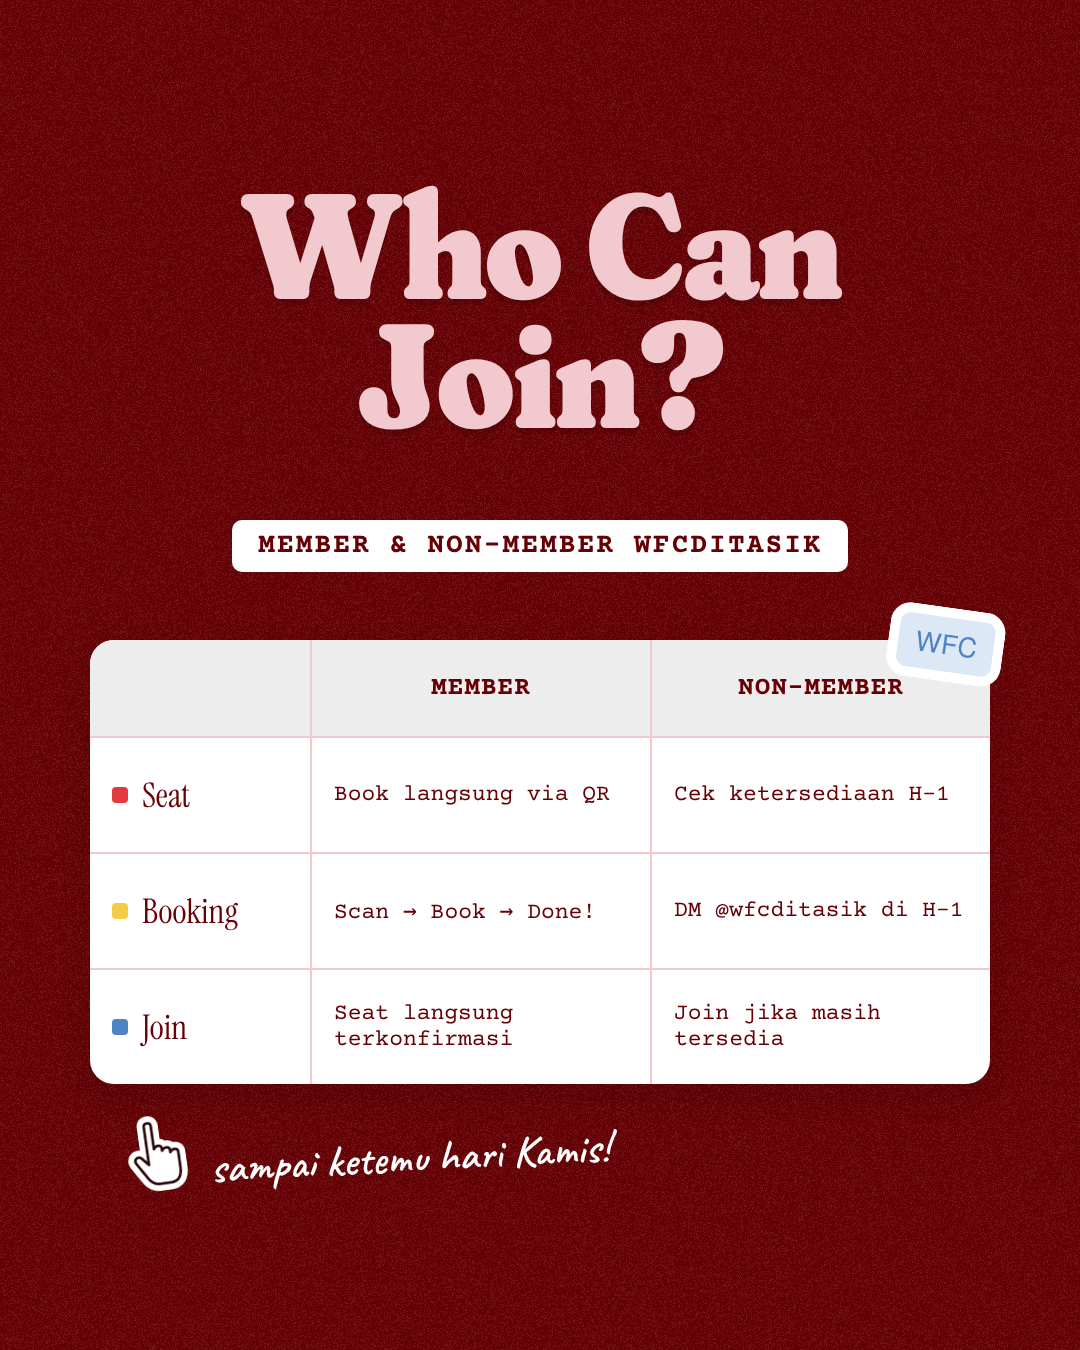
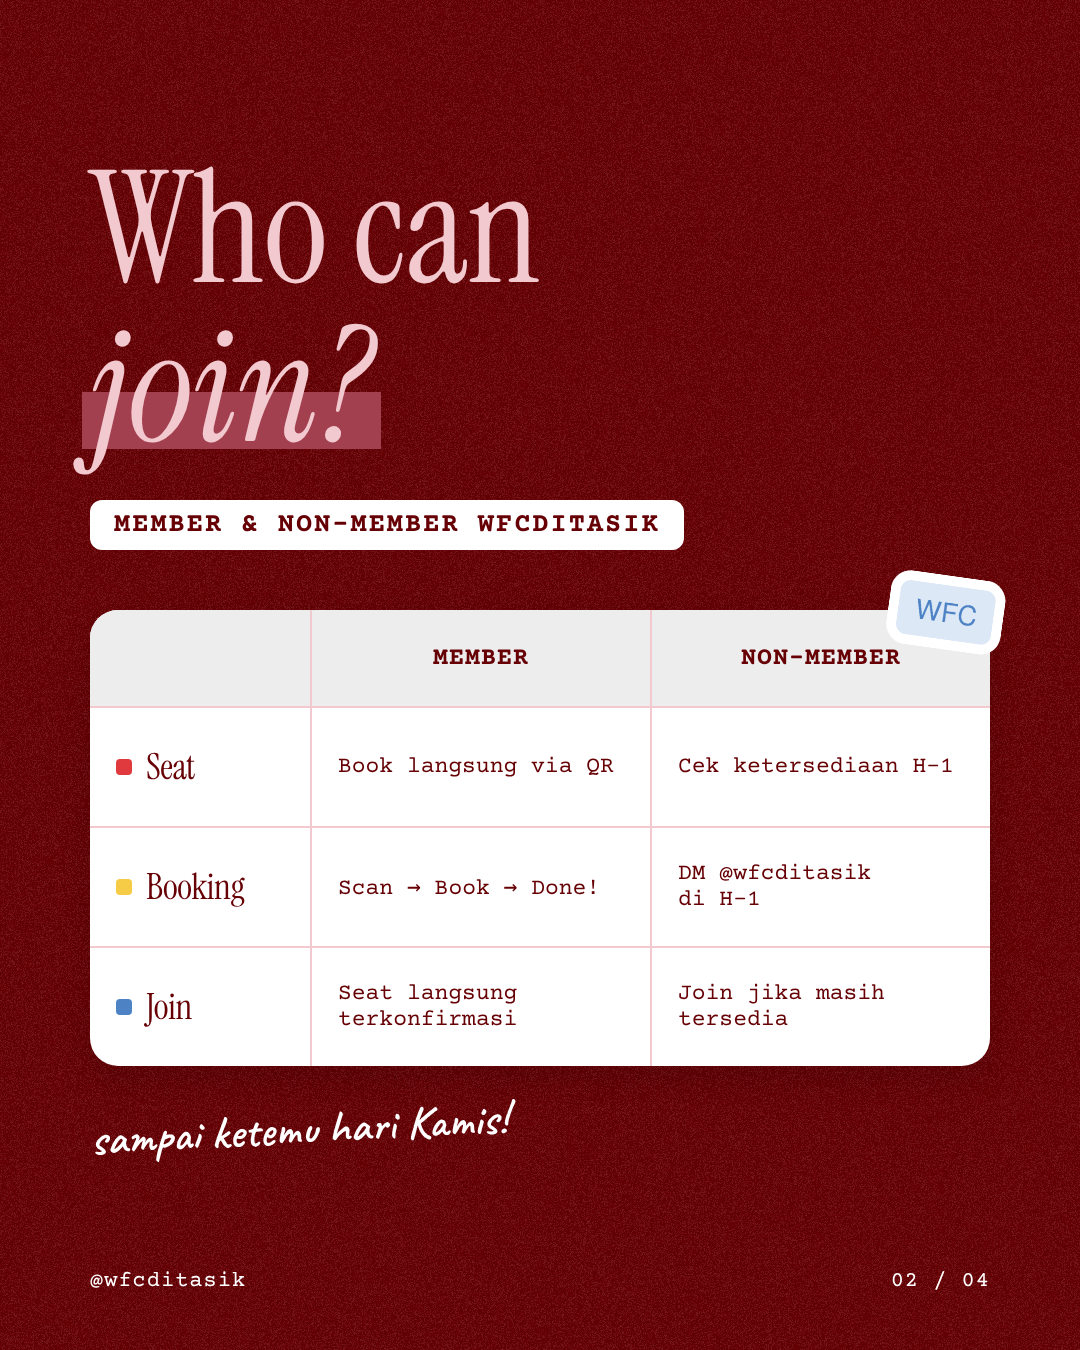
WFCbareng poster: 4 slides (poster, who can join, member benefits, join CTA), Cooper-style tight title, brand fonts elsewhere
Claude-Session: https://claude.ai/code/session_01PYAFn8ft4nKeCr1swPnjKW

diff --git a/tools/build_wfcbareng_poster.py b/tools/build_wfcbareng_poster.py
@@ -1,11 +1,13 @@
-"""Build the weekly WFCbareng poster (2 slides, 1080x1350).
+"""Build the weekly WFCbareng poster carousel (4 slides, 1080x1350).
 
 Usage:
   python3 tools/build_wfcbareng_poster.py --number 11 --date 2026-10-15 --bg maroon \
-      --illustration posters/2026-10-15-11/illustration.svg [--qr path/to/qr.png]
+      --illustration posters/2026-10-15-11/illustration.svg [--qr qr.png] [--website example.com]
 
-Output: posters/<date>-<number>/slide-01.png (poster) and slide-02.png (Who Can Join?).
+Slides: 01 poster · 02 Who Can Join? · 03 member benefits · 04 join-member CTA.
 Backgrounds rotate maroon -> pink -> gray (plain + grain texture).
+Fonts: "WFC bareng" title = Cooper BT (fonts/wfcbareng/WFCbareng.ttf|.otf if provided; else Fraunces
+Black Soft as stand-in). Everything else = brand-kit fonts (Instrument Serif, Courier Prime, Caveat).
 """
 import argparse, asyncio, datetime, os
 import numpy as np
@@ -16,8 +18,8 @@ KIT = os.path.abspath(os.path.join(os.path.dirname(os.path.abspath(__file__)), "
 U = f"file://{KIT}"
 BULAN = ["Januari", "Februari", "Maret", "April", "Mei", "Juni", "Juli", "Agustus",
          "September", "Oktober", "November", "Desember"]
+HARI = ["SENIN", "SELASA", "RABU", "KAMIS", "JUMAT", "SABTU", "MINGGU"]
 
-# Title font: replace with the real WFCbareng font file when available (fonts/wfcbareng/*).
 TITLE_FONT = None
 for cand in ["fonts/wfcbareng/WFCbareng.ttf", "fonts/wfcbareng/WFCbareng.otf"]:
     if os.path.exists(os.path.join(KIT, cand)):
@@ -27,11 +29,11 @@ TITLE_FACE = (f"@font-face {{ font-family:'TT'; src:url('{U}/{TITLE_FONT}'); }}"
 TITLE_VARIATION = "" if TITLE_FONT else "font-weight:900; font-variation-settings:'SOFT' 100, 'WONK' 0, 'opsz' 144;"
 
 THEMES = {
-    # bg, title, text, accent (tag bg), tag text, card
-    "maroon": dict(bg="#660005", title="#F2C9CF", text="#FFFFFF", sub="#F2C9CF", tag="#F2C9CF", tagtext="#660005"),
-    "pink":   dict(bg="#F2C9CF", title="#660005", text="#660005", sub="#660005", tag="#660005", tagtext="#FFFFFF"),
-    "gray":   dict(bg="#EDEDED", title="#660005", text="#660005", sub="#660005", tag="#660005", tagtext="#FFFFFF"),
+    "maroon": dict(bg="#660005", title="#F2C9CF", text="#FFFFFF", mk="#A3404F"),
+    "pink":   dict(bg="#F2C9CF", title="#660005", text="#660005", mk="#FFFFFF"),
+    "gray":   dict(bg="#EDEDED", title="#660005", text="#660005", mk="#F2C9CF"),
 }
+RED = "#660005"
 
 
 def grain():
@@ -40,8 +42,7 @@ def grain():
         rng = np.random.default_rng(7)
         n = rng.random((1350, 1080))
         a = np.zeros((1350, 1080, 4), dtype=np.uint8)
-        dark = n < 0.5
-        a[..., :3] = np.where(dark[..., None], 0, 255)
+        a[..., :3] = np.where((n < 0.5)[..., None], 0, 255)
         a[..., 3] = (np.abs(n - 0.5) * 2 * 26).astype(np.uint8)
         Image.fromarray(a, "RGBA").save(path)
     return f"{U}/backgrounds/png/grain-overlay.png"
@@ -60,11 +61,16 @@ html, body {{ width:1080px; height:1350px; overflow:hidden; }}
 .slide {{ position:relative; width:1080px; height:1350px; background:{t['bg']}; color:{t['text']}; }}
 .grain {{ position:absolute; inset:0; background:url('{grain()}'); z-index:0; pointer-events:none; }}
 .abs {{ position:absolute; z-index:2; }}
-.title {{ font-family:'TT', serif; {TITLE_VARIATION} color:{t['title']}; line-height:.86; letter-spacing:-2px;
-          text-shadow: 0 6px 0 rgba(0,0,0,.12); text-align:center; }}
+.tt {{ font-family:'TT', serif; {TITLE_VARIATION} color:{t['title']}; text-shadow:0 7px 0 rgba(0,0,0,.13); }}
+.serif {{ font-family:'IS', serif; font-weight:400; line-height:1.02; letter-spacing:-.5px; }}
+.serif i {{ font-style:italic; }}
 .mono {{ font-family:'CP', monospace; }}
-.serif {{ font-family:'IS', serif; }}
 .hand {{ font-family:'CV', cursive; font-weight:600; }}
+.mk {{ background:linear-gradient(to bottom, transparent 52%, {t['mk']} 52%, {t['mk']} 80%, transparent 80%);
+       -webkit-box-decoration-break:clone; box-decoration-break:clone; padding:0 8px; margin:0 -8px; }}
+.card {{ position:absolute; z-index:2; background:#FFFFFF; color:{RED}; border-radius:28px; box-shadow:0 12px 30px rgba(0,0,0,.12); }}
+.chip {{ display:inline-block; background:#FFFFFF; color:{RED}; font-family:'CP', monospace; font-weight:700; border-radius:12px; }}
+.foot {{ position:absolute; z-index:2; bottom:56px; font-family:'CP', monospace; font-size:22px; letter-spacing:1px; color:{t['text']}; }}
 img.st {{ position:absolute; z-index:3; }}
 """
 
@@ -73,60 +79,96 @@ def st(path, x, y, w, rot=0):
     return f'<img class="st" src="{U}/{path}" style="left:{x}px; top:{y}px; width:{w}px; transform:rotate({rot}deg);">'
 
 
+def foot(i, total=4):
+    return f'<div class="foot" style="left:90px;">@wfcditasik</div><div class="foot" style="right:90px;">0{i} / 0{total}</div>'
+
+
 def poster(n, date, t, ill, qr):
     d = datetime.date.fromisoformat(date)
-    tanggal = f"{d.day} {BULAN[d.month-1].upper()} {d.year}"
-    hari = ["SENIN", "SELASA", "RABU", "KAMIS", "JUMAT", "SABTU", "MINGGU"][d.weekday()]
-    pill = "background:#FFFFFF; color:#660005; border-radius:26px; height:52px; display:flex; align-items:center; padding:0 22px; margin-bottom:12px; box-shadow:0 4px 10px rgba(0,0,0,.08);"
+    tanggal = f"{d.day} {BULAN[d.month-1]} {d.year}"
+    pill = f"background:#FFFFFF; color:{RED}; border-radius:26px; height:54px; display:flex; align-items:center; padding:0 22px; margin-bottom:12px; box-shadow:0 4px 10px rgba(0,0,0,.08);"
     rows = [("09.00 - 12.00", "Deep Work (No Distract)"), ("12.00 - 13.00", "Break &amp; Networking"), ("13.00 - End", "Continue Working")]
-    sched = "".join(f'<div style="{pill}"><span class="mono" style="font-weight:700; font-size:17px; width:160px; flex:none;">{a}</span>'
-                    f'<span class="serif" style="font-size:23px; white-space:nowrap;">{b}</span></div>' for a, b in rows)
-    qr_html = (f'<img src="file://{os.path.abspath(qr)}" style="width:190px; height:190px; display:block; background:#fff; padding:10px; border-radius:12px;">' if qr else
-               '<div class="mono" style="width:190px; height:190px; background:#FFFFFF; border:4px dashed #DF8F9C; border-radius:12px; color:#660005; display:flex; align-items:center; justify-content:center; text-align:center; font-size:20px; font-weight:700;">QR<br>CODE</div>')
+    sched = "".join(f'<div style="{pill}"><span class="mono" style="font-weight:700; font-size:17px; width:154px; flex:none;">{a}</span>'
+                    f'<span class="serif" style="font-size:24px; white-space:nowrap;">{b}</span></div>' for a, b in rows)
+    qr_html = (f'<img src="file://{os.path.abspath(qr)}" style="width:184px; height:184px; display:block; background:#fff; padding:10px; border-radius:14px;">' if qr else
+               f'<div class="mono" style="width:184px; height:184px; background:#FFFFFF; border:4px dashed #DF8F9C; border-radius:14px; color:{RED}; display:flex; align-items:center; justify-content:center; text-align:center; font-size:20px; font-weight:700;">QR<br>CODE</div>')
     return f"""<div class="slide"><div class="grain"></div>
-  {st('ui-accents/png/toggle-mode-fokus-green.png', 40, 46, 220, -7)}
-  <div class="abs title" style="left:0; width:1080px; top:92px; font-size:204px;">WFC<br>bareng</div>
-  <div class="abs mono" style="left:0; width:1080px; top:484px; text-align:center; font-size:24px; font-weight:700; letter-spacing:2px; line-height:1.5; color:{t['sub']};">CONNECTING TASIK REMOTE WORKERS,<br>FREELANCERS, CREATIVES, AND BUILDERS</div>
-  <div class="abs" style="left:826px; top:150px; transform:rotate(-7deg); background:{t['tag']}; color:{t['tagtext']}; padding:4px 18px 10px; font-family:'TT', serif; {TITLE_VARIATION} font-size:72px; line-height:1; box-shadow:0 6px 0 rgba(0,0,0,.12);">#{n}</div>
-  <div class="abs" style="left:90px; top:600px; width:900px; height:440px; background:#FFFFFF; border-radius:36px; box-shadow:0 12px 30px rgba(0,0,0,.12);"></div>
-  <img class="abs" src="file://{os.path.abspath(ill)}" style="left:263px; top:612px; width:554px; z-index:3;">
-  <div class="abs" style="left:62px; top:612px; transform:rotate(-8deg); z-index:4; background:#F6CB45; color:#660005; padding:8px 22px 12px; border-radius:6px; box-shadow:0 6px 14px rgba(0,0,0,.15);">
-    <div style="font-family:'TT', serif; {TITLE_VARIATION} font-size:52px; line-height:1;">FREE</div>
+  <div class="abs tt" style="left:0; width:1080px; top:66px; text-align:center; font-size:238px; line-height:.76; letter-spacing:-7px;">WFC<br><span style="margin-left:-40px;">bareng</span></div>
+  <div class="abs mono" style="left:0; width:1080px; top:506px; text-align:center; font-size:23px; font-weight:700; letter-spacing:2px; line-height:1.55;">CONNECTING TASIK REMOTE WORKERS,<br>FREELANCERS, CREATIVES, AND BUILDERS</div>
+  <div class="abs" style="left:858px; top:84px; transform:rotate(-7deg); background:{t['title']}; color:{t['bg']}; padding:2px 20px 8px; box-shadow:0 6px 0 rgba(0,0,0,.13);"><span class="serif" style="font-size:84px; line-height:1;"><i>#{n}</i></span></div>
+  {st('ui-accents/png/toggle-mode-fokus-green.png', 46, 52, 210, -7)}
+  <div class="card" style="left:90px; top:624px; width:900px; height:420px; border-radius:36px;"></div>
+  <img class="abs" src="file://{os.path.abspath(ill)}" style="left:280px; top:634px; width:520px; z-index:3;">
+  <div class="abs" style="left:66px; top:628px; transform:rotate(-8deg); z-index:4; background:#F6CB45; color:{RED}; padding:6px 22px 12px; border-radius:6px; box-shadow:0 6px 14px rgba(0,0,0,.15);">
+    <div class="serif" style="font-size:64px; line-height:1;"><i>Free</i></div>
     <div class="mono" style="font-size:16px; font-weight:700; margin-top:2px;">for member &amp;<br>non-member</div></div>
-  <div class="abs" style="left:70px; top:1080px; width:320px;">
-    <div style="font-family:'TT', serif; {TITLE_VARIATION} font-size:78px; line-height:.95; color:{t['title']};">{hari}</div>
-    <div class="mono" style="font-size:24px; font-weight:700; letter-spacing:1px; margin-top:6px;">{tanggal}</div>
-    <div class="mono" style="font-size:22px; font-weight:700; letter-spacing:1px; line-height:1.4; margin-top:22px;">LANGGAM COFFEE &amp; BOOK<br>TARUMANAGARA</div></div>
-  <div class="abs" style="left:398px; top:1092px; width:400px;">{sched}</div>
-  <div class="abs" style="left:822px; top:1072px; width:190px; text-align:center;">
-    <div class="mono" style="font-size:32px; font-weight:700; letter-spacing:2px; margin-bottom:10px;">REGISTER</div>{qr_html}</div>
+  <div class="abs" style="left:90px; top:1078px; width:300px;">
+    <div class="serif" style="font-size:92px; line-height:.9; color:{t['title']};">{HARI[d.weekday()].capitalize()}</div>
+    <div class="mono" style="font-size:24px; font-weight:700; letter-spacing:1px; margin-top:10px;">{tanggal}</div>
+    <div class="mono" style="font-size:21px; font-weight:700; letter-spacing:1px; line-height:1.45; margin-top:22px;">LANGGAM COFFEE &amp; BOOK<br>TARUMANAGARA</div></div>
+  <div class="abs" style="left:398px; top:1090px; width:384px;">{sched}</div>
+  <div class="abs" style="left:806px; top:1072px; width:184px; text-align:center;">
+    <div class="mono" style="font-size:30px; font-weight:700; letter-spacing:2px; margin-bottom:10px;">REGISTER</div>{qr_html}</div>
 </div>"""
 
 
 def who(t):
-    cell = "padding:0 22px; display:flex; align-items:center; border-top:2px solid #F2C9CF;"
-    rows = [("#E0393E", "Seat", "Book langsung via QR", "Cek ketersediaan H-1"),
-            ("#F6CB45", "Booking", "Scan &rarr; Book &rarr; Done!", "DM @wfcditasik di H-1"),
+    cell = "padding:0 26px; display:flex; align-items:center; border-top:2px solid #F2C9CF;"
+    rows = [("#E0393E", "Seat", "Book langsung via QR", "Cek ketersediaan H&#8209;1"),
+            ("#F6CB45", "Booking", "Scan &rarr; Book &rarr; Done!", "DM @wfcditasik di&nbsp;H&#8209;1"),
             ("#4D83C5", "Join", "Seat langsung terkonfirmasi", "Join jika masih tersedia")]
     body = "".join(
-        f'<div style="display:grid; grid-template-columns:220px 1fr 1fr; height:116px;">'
-        f'<div style="{cell}"><span style="width:16px; height:16px; border-radius:4px; background:{c}; margin-right:14px;"></span><span class="serif" style="font-size:34px;">{a}</span></div>'
+        f'<div style="display:grid; grid-template-columns:220px 1fr 1fr; height:120px;">'
+        f'<div style="{cell}"><span style="width:16px; height:16px; border-radius:4px; background:{c}; margin-right:14px; flex:none;"></span><span class="serif" style="font-size:36px;">{a}</span></div>'
         f'<div class="mono" style="{cell} border-left:2px solid #F2C9CF; font-size:23px;">{b}</div>'
         f'<div class="mono" style="{cell} border-left:2px solid #F2C9CF; font-size:23px;">{c2}</div></div>'
         for c, a, b, c2 in rows)
+    head = "display:flex; align-items:center; justify-content:center; font-size:25px; font-weight:700; letter-spacing:1px; border-left:2px solid #F2C9CF;"
     return f"""<div class="slide"><div class="grain"></div>
-  <div class="abs title" style="left:0; width:1080px; top:180px; font-size:150px;">Who Can<br>Join?</div>
-  <div class="abs mono" style="left:0; width:1080px; top:520px; text-align:center;">
-    <span style="display:inline-block; background:#FFFFFF; color:#660005; font-size:28px; font-weight:700; letter-spacing:2px; padding:10px 26px; border-radius:10px;">MEMBER &amp; NON-MEMBER WFCDITASIK</span></div>
-  <div class="abs" style="left:90px; top:640px; width:900px; background:#FFFFFF; color:#660005; border-radius:24px; overflow:hidden; box-shadow:0 12px 30px rgba(0,0,0,.12);">
+  <div class="abs serif" style="left:90px; top:150px; width:900px; font-size:156px; color:{t['title']};">Who can<br><span class="mk"><i>join?</i></span></div>
+  <div class="abs" style="left:90px; top:500px;"><span class="chip" style="font-size:27px; letter-spacing:2px; padding:10px 24px;">MEMBER &amp; NON-MEMBER WFCDITASIK</span></div>
+  <div class="card" style="left:90px; top:610px; width:900px; overflow:hidden;">
     <div style="display:grid; grid-template-columns:220px 1fr 1fr; height:96px; background:#EDEDED;">
-      <div></div>
-      <div class="mono" style="display:flex; align-items:center; justify-content:center; font-size:26px; font-weight:700; letter-spacing:1px; border-left:2px solid #F2C9CF;">MEMBER</div>
-      <div class="mono" style="display:flex; align-items:center; justify-content:center; font-size:26px; font-weight:700; letter-spacing:1px; border-left:2px solid #F2C9CF;">NON-MEMBER</div></div>
+      <div></div><div class="mono" style="{head}">MEMBER</div><div class="mono" style="{head}">NON-MEMBER</div></div>
     {body}</div>
-  {st('ui-accents/png/tag-wfc-blue.png', 880, 600, 130, 8)}
-  {st('ui-accents/png/cursor-hand.png', 120, 1110, 74, -8)}
-  <div class="abs hand" style="left:210px; top:1130px; font-size:44px; transform:rotate(-3deg); color:{t['text']};">sampai ketemu hari Kamis!</div>
+  {st('ui-accents/png/tag-wfc-blue.png', 880, 568, 130, 8)}
+  <div class="abs hand" style="left:90px; top:1100px; font-size:46px; transform:rotate(-3deg); color:{t['text']};">sampai ketemu hari Kamis!</div>
+  {foot(2)}
+</div>"""
+
+
+def benefits(t):
+    items = [("#F6CB45", "Member Pricing &ndash; Remote Worker Hangout", "Harga khusus untuk sesi belajar &amp; upgrade skill."),
+             ("#4D83C5", "Member Pricing &ndash; Digital Resources", "Harga khusus untuk E-book, Career Guide, &amp; resources lainnya."),
+             ("#8FCB63", "Connect with Your People", "Bangun koneksi dengan sesama remote worker di Tasik."),
+             ("#E0393E", "Cafe Partner Perks", "Nikmati benefit &amp; special perks dari cafe partner WFCditasik.")]
+    rows = "".join(
+        f'<div style="display:flex; gap:22px; padding:26px 34px; {"border-top:2px solid #F2C9CF;" if i else ""}">'
+        f'<span style="width:18px; height:18px; border-radius:5px; background:{c}; flex:none; margin-top:7px;"></span>'
+        f'<div><div class="mono" style="font-size:25px; font-weight:700;">{a}</div>'
+        f'<div class="mono" style="font-size:23px; margin-top:6px; line-height:1.35; color:#3A1A1C;">{b}</div></div></div>'
+        for i, (c, a, b) in enumerate(items))
+    return f"""<div class="slide"><div class="grain"></div>
+  <div class="abs serif" style="left:90px; top:120px; width:900px; font-size:112px; color:{t['title']};">Join <span class="mk"><i>unlimited</i></span><br>WFCbareng session</div>
+  <div class="abs" style="left:90px; top:385px;"><span class="chip" style="font-size:34px; padding:12px 26px;">sebagai Member WFCditasik</span></div>
+  <div class="abs serif" style="left:90px; top:492px; font-size:58px; color:{t['title']};">Dan dapatkan <i>benefits</i> lainnya:</div>
+  <div class="card" style="left:90px; top:600px; width:900px; overflow:hidden;">{rows}</div>
+  {foot(3)}
+</div>"""
+
+
+def cta(t, website):
+    web = (f'<span class="chip" style="font-size:36px; padding:14px 30px;">{website}</span>' if website else
+           f'<span class="chip" style="font-size:30px; padding:14px 30px; border:3px dashed #DF8F9C;">[ link website ]</span>')
+    return f"""<div class="slide"><div class="grain"></div>
+  <div class="abs mono" style="left:90px; top:170px; font-size:26px; font-weight:700; letter-spacing:3px;">SIAP KERJA BARENG TIAP KAMIS?</div>
+  <div class="abs serif" style="left:90px; top:240px; width:900px; font-size:150px; color:{t['title']};">Yuk, jadi<br><span class="mk"><i>member</i></span><br>WFCditasik.</div>
+  <div class="abs mono" style="left:90px; top:760px; width:820px; font-size:30px; line-height:1.45;">Daftar &amp; cek semua benefit member<br>di website kami:</div>
+  <div class="abs" style="left:90px; top:880px;">{web}</div>
+  {st('ui-accents/png/button-join-green.png', 560, 1000, 300, -4)}
+  {st('ui-accents/png/cursor-hand.png', 820, 1060, 80, 0)}
+  <div class="abs hand" style="left:90px; top:1030px; font-size:46px; transform:rotate(-3deg); color:{t['text']};">see you di WFCbareng!</div>
+  {foot(4)}
 </div>"""
 
 
@@ -137,15 +179,17 @@ async def main():
     ap.add_argument("--bg", choices=THEMES, required=True)
     ap.add_argument("--illustration", required=True)
     ap.add_argument("--qr")
+    ap.add_argument("--website")
     ap.add_argument("--out")
     a = ap.parse_args()
     t = THEMES[a.bg]
     out = a.out or os.path.join(KIT, "posters", f"{a.date}-{a.number}")
     os.makedirs(out, exist_ok=True)
+    slides = [poster(a.number, a.date, t, a.illustration, a.qr), who(t), benefits(t), cta(t, a.website)]
     async with async_playwright() as p:
         b = await p.chromium.launch()
         pg = await b.new_page(viewport={"width": 1080, "height": 1350})
-        for i, body in enumerate([poster(a.number, a.date, t, a.illustration, a.qr), who(t)], 1):
+        for i, body in enumerate(slides, 1):
             html = f"<!doctype html><html><head><meta charset='utf-8'><style>{css(t)}</style></head><body>{body}</body></html>"
             f = os.path.join(out, f"slide-0{i}.html"); open(f, "w").write(html)
             await pg.goto(f"file://{f}"); await pg.evaluate("document.fonts.ready"); await pg.wait_for_timeout(200)

diff --git a/posters/README.md b/posters/README.md
@@ -3,11 +3,11 @@
 Every Monday: poster for that week's Thursday WFCbareng, posted Monday 18:00 WIB (feed only, after Diah approves).
 
 - Build: `python3 tools/build_wfcbareng_poster.py --number N --date YYYY-MM-DD(Thursday) --bg maroon|pink|gray --illustration posters/<date>-<N>/illustration.svg [--qr qr.png]`
-- Slide 1 = poster, slide 2 = "Who Can Join?" (member vs non-member table).
+- 4 slides: 01 poster · 02 "Who can join?" (member vs non-member) · 03 member benefits · 04 CTA: join as member + visit the website (`--website`).
 - Background rotates by number: #11 maroon, #12 pink, #13 gray, #14 maroon, ... (N mod 3: 2 = maroon, 0 = pink, 1 = gray). Plain color + grain, never checker.
 - Fixed info: 09.00–12.00 Deep Work (No Distract) · 12.00–13.00 Break & Networking · 13.00–End Continue Working · Langgam Coffee & Book Tarumanagara · FREE for member & non-member.
 - Illustration: a NEW original SVG every week, same flat style as #11 (ink outlines, Blood Red + pop accents, people working/WFC life). No photos, no Canva elements.
-- Title font: put the official WFCbareng font in `fonts/wfcbareng/WFCbareng.ttf` (or .otf); until then Fraunces Black is the stand-in.
+- Fonts: ONLY the "WFC bareng" title uses Cooper BT (put a licensed file at `fonts/wfcbareng/WFCbareng.ttf`/.otf; until then Fraunces Black Soft is the stand-in), set big and tight like the original. Everything else uses the brand-kit fonts (Instrument Serif, Courier Prime, Caveat).
 - QR code: different per event; Diah sends it after approving the design.
 - Skipped Thursday = no poster that week; the next poster keeps the next number.
 - Caption: follow `posters/caption-example.md` when it exists.
